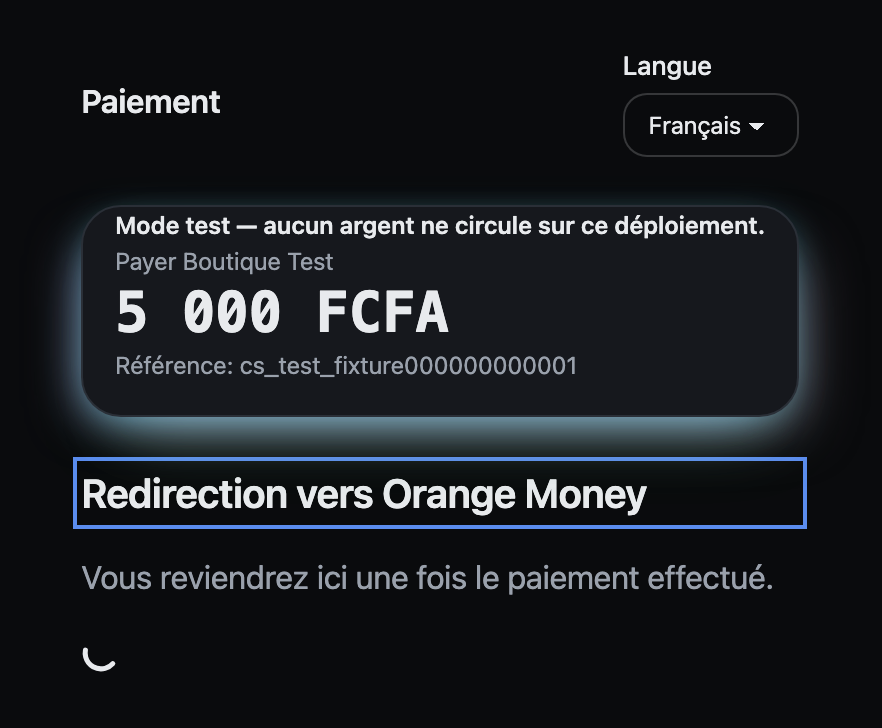
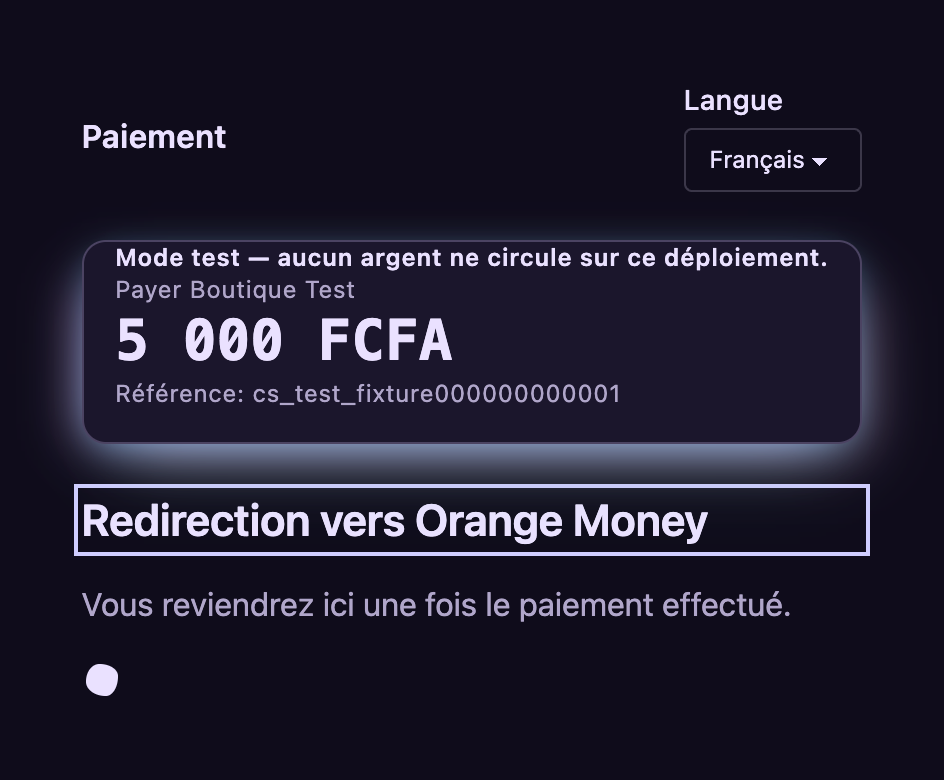
docs(checkout): retake the eight checkout screenshots at vpay v0.10.2
They were v0.4.1 captures. Since v0.10.0 the checkout app is built on
@vaam-apps/ui ^0.5.0, whose Material 3 palette replaced the one they
showed, so they no longer showed the page as vpay renders it.

Retaken from the checkout app's own Storybook at 90fe1b91, one story per
image, as element captures of #storybook-root in headless Chrome 155 on
macOS 27 at 2x. hosted.md now says so, drops the "due now" note, calls the
morphing busy indicator a loading indicator in two alt texts, and lists the
app's package.json and app/globals.css as sources, so the next palette
change marks the page stale on its own.

diff --git a/docs/checkout/hosted.md b/docs/checkout/hosted.md
@@ -13,6 +13,8 @@ sources:
   - docs/runbooks/checkout.md
   - frontends/apps/checkout/src/lib/machine.ts
   - frontends/apps/checkout/src/components
+  - frontends/apps/checkout/package.json
+  - frontends/apps/checkout/app/globals.css
 skills:
   - vpay-checkout
   - vpay-frontend
@@ -250,9 +252,12 @@ stateDiagram-v2
 
 ### The screens, as vpay renders them
 
-These are screenshots of vpay's own checkout components, captured at v0.4.1 from
-the checkout app's Storybook (`frontends/apps/checkout`, story file
-`checkout-screens.stories.tsx`). The data is the repository's test fixture: a 5
+These are screenshots of vpay's own checkout components, captured at v0.10.2
+from the checkout app's Storybook (`frontends/apps/checkout`, story file
+`checkout-screens.stories.tsx`), in headless Chrome on macOS at twice the pixel
+density. The page loads no web font, so its text is drawn in the device's own
+face, and the busy indicator is a shape that morphs as it turns, caught here at
+its first frame. The data is the repository's test fixture: a 5
 000 FCFA session for "Boutique Test", with reference
 `cs_test_fixture000000000001`. It is the same set of states
 `checkout-view.test.tsx` asserts against, and that vpay's Storybook
@@ -269,7 +274,7 @@ screens are shown in English.
     <figcaption><code>collect_msisdn</code>: the MTN number, before confirm</figcaption>
   </figure>
   <figure class="shot">
-    <img src="/images/checkout/waiting-for-the-payer.png" alt="Checkout page in French headed 'Consultez votre téléphone': approve 5 000 FCFA on your handset; the page updates itself. A spinner." loading="lazy" />
+    <img src="/images/checkout/waiting-for-the-payer.png" alt="Checkout page in French headed 'Consultez votre téléphone': approve 5 000 FCFA on your handset; the page updates itself. A loading indicator." loading="lazy" />
     <figcaption><code>waiting</code>: the payer approves on their handset</figcaption>
   </figure>
   <figure class="shot">
@@ -277,7 +282,7 @@ screens are shown in English.
     <figcaption><code>ready_redirect</code>: Orange, before the hand-off</figcaption>
   </figure>
   <figure class="shot">
-    <img src="/images/checkout/redirecting-to-the-rail.png" alt="Checkout page in French headed 'Redirection vers Orange Money': you will come back here once the payment is made. A spinner." loading="lazy" />
+    <img src="/images/checkout/redirecting-to-the-rail.png" alt="Checkout page in French headed 'Redirection vers Orange Money': you will come back here once the payment is made. A loading indicator." loading="lazy" />
     <figcaption><code>redirecting</code>: leaving for the rail's page</figcaption>
   </figure>
   <figure class="shot">
@@ -298,13 +303,9 @@ screens are shown in English.
 They are vpay's real components, rendered with fixture state. They are **not** a
 capture of a live payment. No rail answered behind them, and at <Release /> no
 real payer is on record as having seen any of these screens. The checkout
-components are among this page's sources, so a release that changes them marks
-the page stale and the screenshots due for a retake. **They are due now.**
-They were captured at v0.4.1, and since v0.10.0 the checkout app is built on
-`@vaam-apps/ui` `^0.5.0`
-([its manifest](vpay:frontends/apps/checkout/package.json)), whose Material 3
-palette replaced the one shown. Read them for each screen's content and state,
-not for how the page looks today.
+components, the checkout app's manifest (which pins the UI package) and its
+stylesheet are among this page's sources, so a release that changes any of them
+marks the page stale and the screenshots due for a retake.
 :::
 
 A few properties worth knowing:
